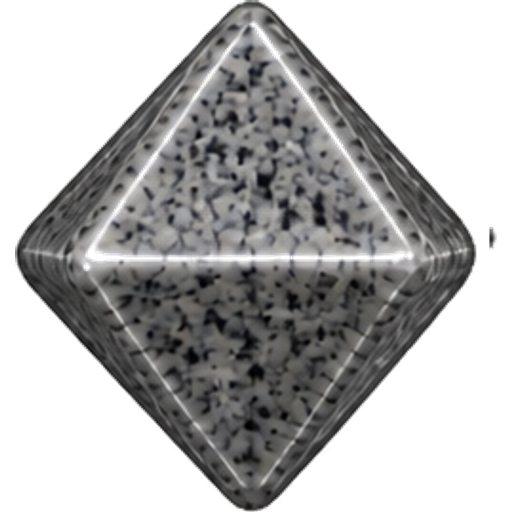
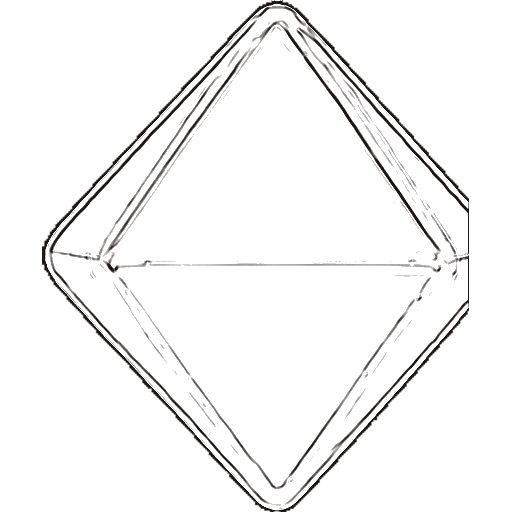
Dice roller multi-roll and two-colour dice update

diff --git a/src/CoreRulesModern/Views/DiceRollerWindow.xaml.cs b/src/CoreRulesModern/Views/DiceRollerWindow.xaml.cs
@@ -571,11 +571,13 @@ public partial class DiceRollerWindow : Window
         var speckleLayer = new Border { Width = size, Height = size, Background = CreateSpeckleBrush(Colors.Transparent.ToString(), die.SecondaryColourHex), OpacityMask = mask, IsHitTestVisible = false };
         var face = new Image
         {
-            Source = new BitmapImage(faceUri), Width = size, Height = size, Stretch = Stretch.Uniform, Opacity = 0.38, IsHitTestVisible = false,
+            Source = new BitmapImage(faceUri), Width = size, Height = size, Stretch = Stretch.Uniform, Opacity = 1, IsHitTestVisible = false,
             Effect = new DropShadowEffect { Color = die == _selectedDie ? Color.FromRgb(224, 175, 65) : Colors.Black, BlurRadius = die == _selectedDie ? 18 : 11, ShadowDepth = die == _selectedDie ? 0 : 6, Opacity = 0.95 }
         };
-        var numeralTop = die.Sides switch { 4 => .43, 8 => .37, 12 or 20 => .38, 100 => .35, _ => .40 };
-        var number = new TextBlock { Text = DisplayNumber(die), FontFamily = new FontFamily("Georgia"), FontSize = size * (die.Sides == 100 ? .22 : .285), FontWeight = FontWeights.Bold, Foreground = ContrastBrush(die.ColourHex), HorizontalAlignment = HorizontalAlignment.Center, VerticalAlignment = VerticalAlignment.Top, Margin = new Thickness(0, size * numeralTop, 0, 0), Effect = new DropShadowEffect { Color = Colors.White, BlurRadius = 2, ShadowDepth = 0, Opacity = 0.55 }, IsHitTestVisible = false };
+        var numeralTop = die.Sides switch { 4 => .37, 8 => .25, 10 => .24, 12 => .30, 20 => .38, 100 => .35, _ => .40 };
+        var numeralSize = die.Sides switch { 4 => .35, 6 => .35, 100 => .22, _ => .285 };
+        var numeralX = die.Sides == 12 ? size * -.035 : 0;
+        var number = new TextBlock { Text = DisplayNumber(die), FontFamily = new FontFamily("Georgia"), FontSize = size * numeralSize, FontWeight = FontWeights.Bold, Foreground = ContrastBrush(die.ColourHex), HorizontalAlignment = HorizontalAlignment.Center, VerticalAlignment = VerticalAlignment.Top, Margin = new Thickness(0, size * numeralTop, 0, 0), RenderTransform = new TranslateTransform(numeralX, 0), Effect = new DropShadowEffect { Color = Colors.White, BlurRadius = 2, ShadowDepth = 0, Opacity = 0.55 }, IsHitTestVisible = false };
         var label = new TextBlock { Text = string.IsNullOrWhiteSpace(die.Label) ? $"d{die.Sides}" : $"d{die.Sides} · {die.Label}", Foreground = Brushes.White, FontSize = Math.Max(11, size * .095), FontWeight = FontWeights.SemiBold, HorizontalAlignment = HorizontalAlignment.Center, VerticalAlignment = VerticalAlignment.Bottom, TextTrimming = TextTrimming.CharacterEllipsis, MaxWidth = size, Effect = new DropShadowEffect { Color = Colors.Black, BlurRadius = 3, ShadowDepth = 1, Opacity = 1 }, IsHitTestVisible = false };
         grid.Children.Add(colourLayer); grid.Children.Add(speckleLayer); grid.Children.Add(face);
         if (die.Quantity > 1) grid.Children.Add(new TextBlock { Text = $"{die.Quantity}×", FontFamily = new FontFamily("Georgia"), FontSize = size * .19, FontWeight = FontWeights.Bold, Foreground = Brushes.White, HorizontalAlignment = HorizontalAlignment.Left, VerticalAlignment = VerticalAlignment.Top, Margin = new Thickness(2, 4, 0, 0), Effect = new DropShadowEffect { Color = Colors.Black, BlurRadius = 4, ShadowDepth = 2, Opacity = 1 }, IsHitTestVisible = false });
